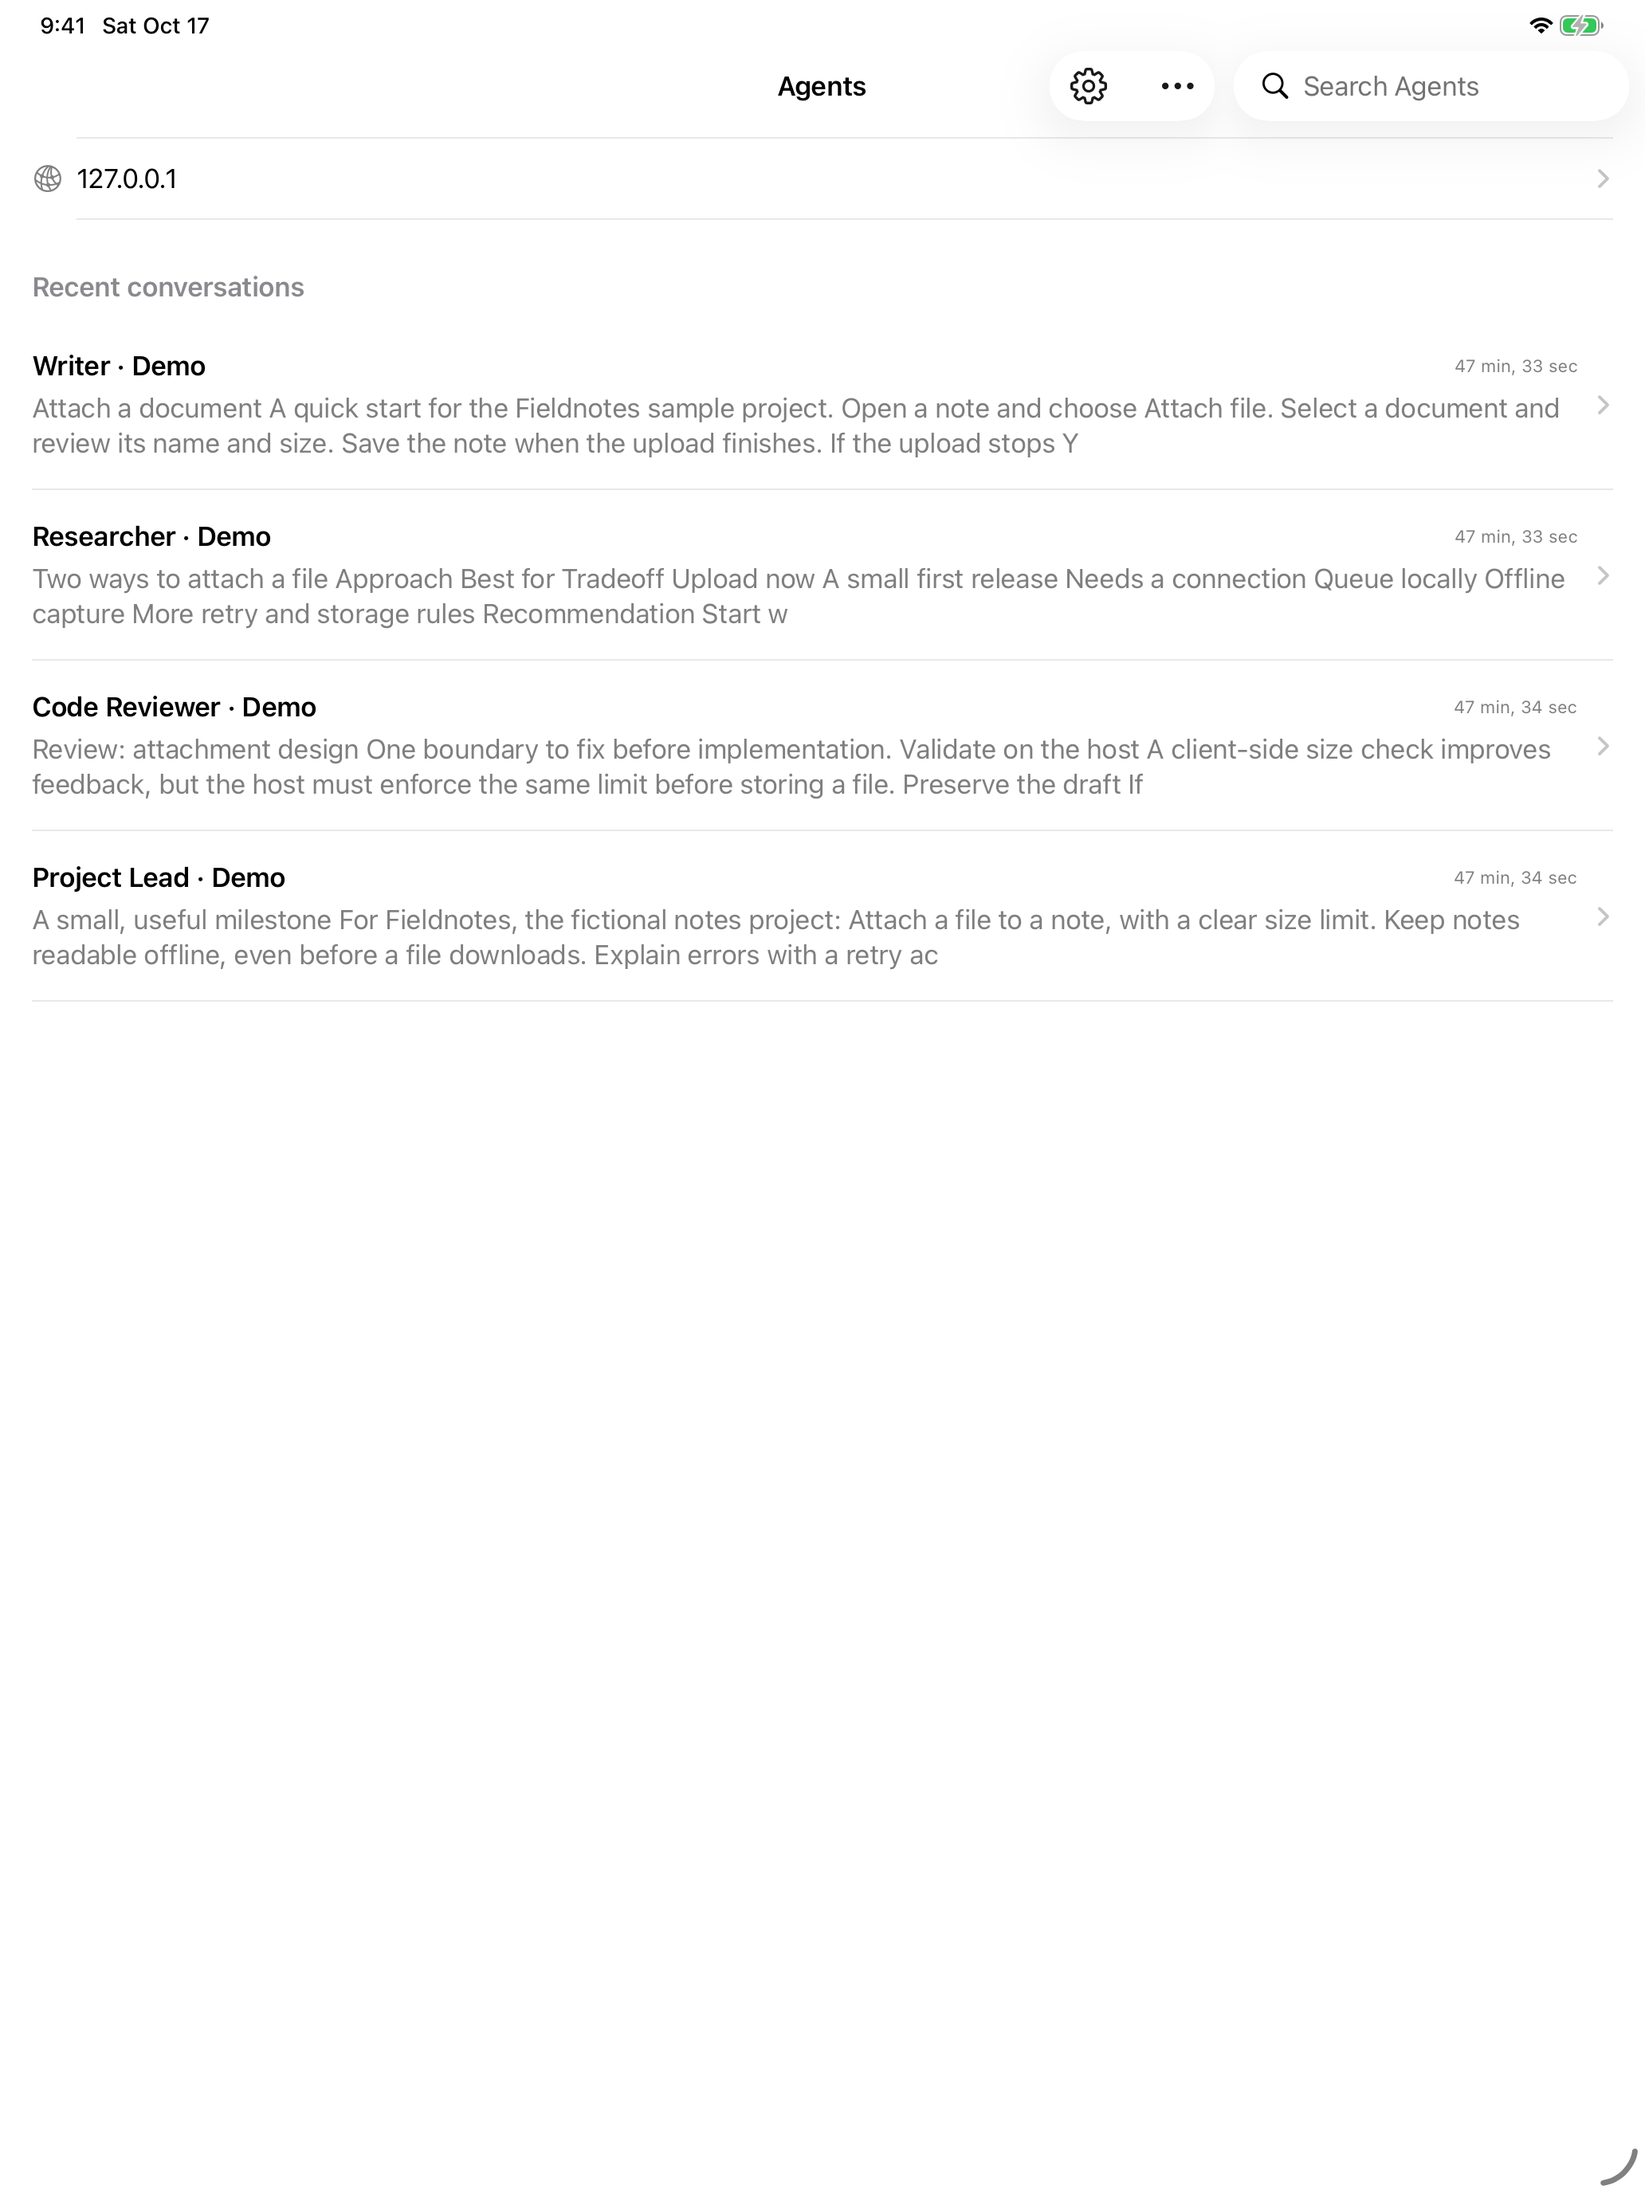
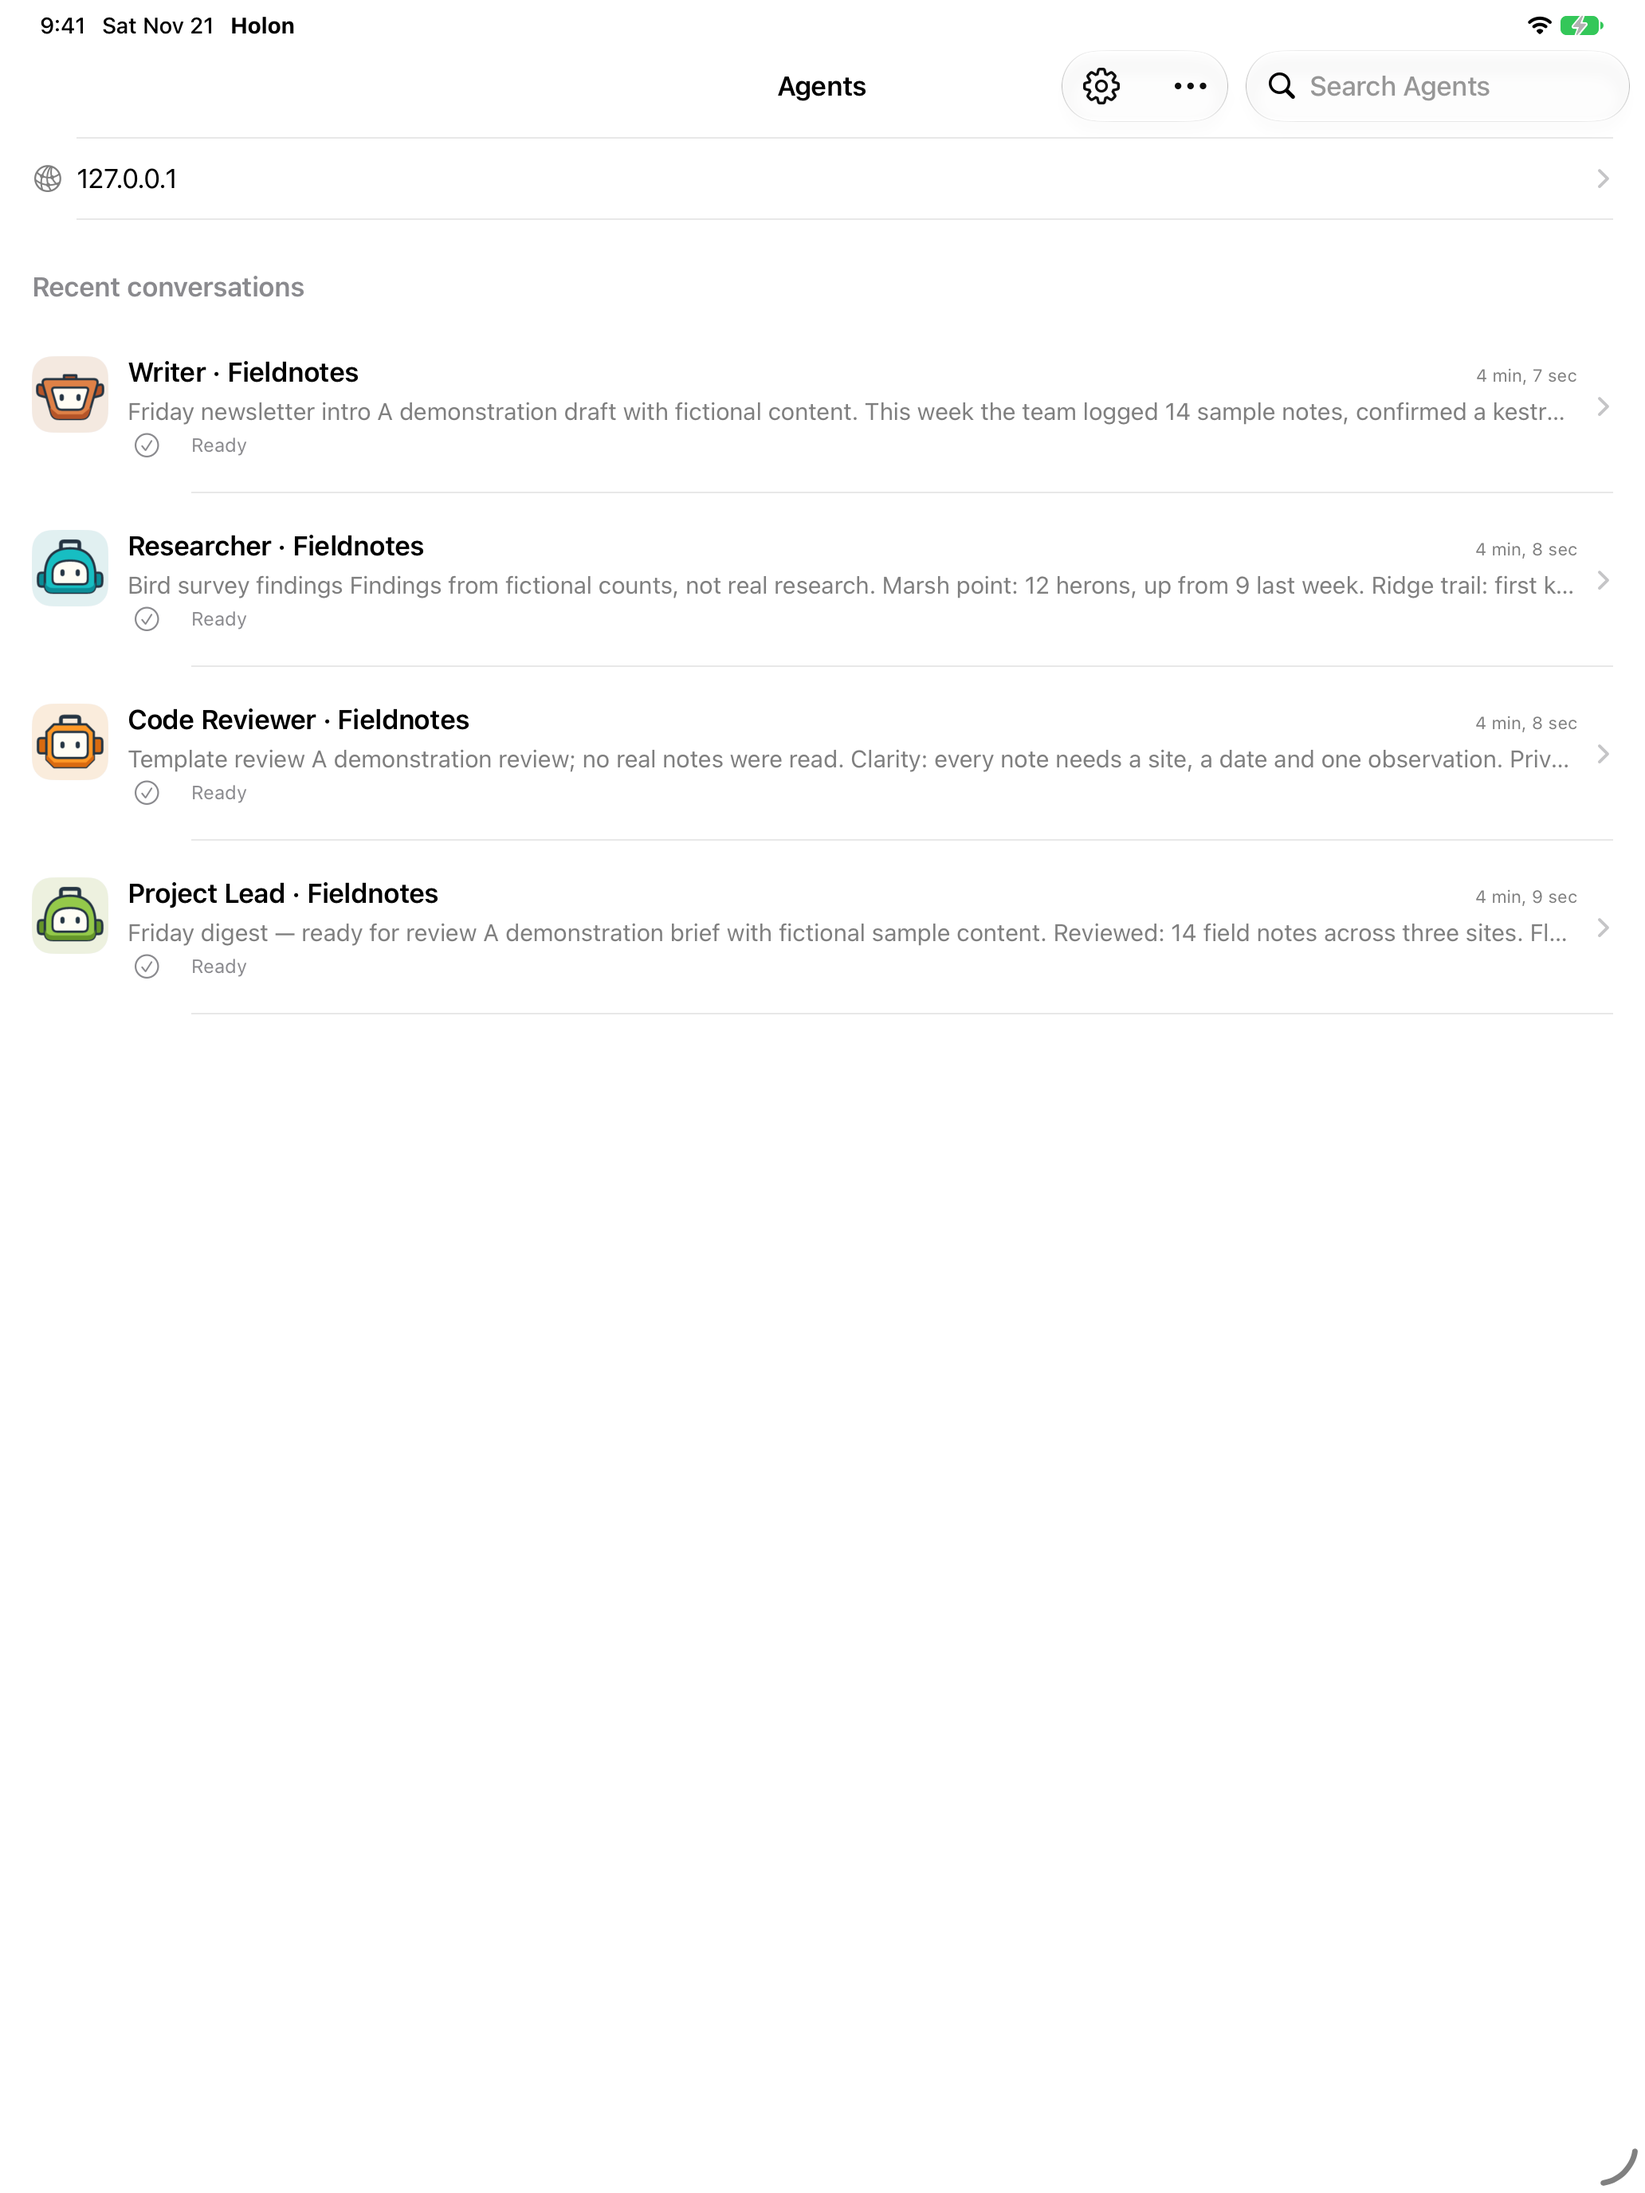
docs: refresh iOS App Store screenshots for current main UI
Replace the 16 en-US store screenshots (iPhone 1206x2622 and iPad Pro
13-inch 2064x2752, light/dark x 4 scenes) captured from 0.1.0 (build 9)
in October 2026 with new captures from main a6cd86c6, which includes the
0.1.2-series UI improvements (input preview, unread states, navigation,
avatar caching, layout stability). Captured on dedicated iOS 27.0
simulators against an isolated local-only demo service with fictional
content. Every PNG was individually reviewed for dimensions, scene
content, absence of error/loading/cache banners, credentials, and
test-runner text. Regenerate SHA256SUMS and update provenance in
apps/ios/store/README.md.

diff --git a/apps/ios/store/README.md b/apps/ios/store/README.md
@@ -1,12 +1,13 @@
 # iOS store and article assets
 
-These assets were prepared for the `en-US` App Store listing of Holon iOS
-0.1.0 (build 9) and can also be reused on the website or in articles. They
-are native, unretouched simulator captures taken on October 16-17, 2026.
-They are the exact files staged for manual upload for the 0.1.0 submission
-on October 17, 2026: the operator confirmed the screenshot upload, and the
-App Store Connect submission validation no longer reported missing
-screenshots.
+These assets are prepared for the `en-US` App Store listing of Holon iOS
+and can also be reused on the website or in articles. They are native,
+unretouched simulator captures taken on November 21, 2026 from current
+`main` (commit `a6cd86c6`), which includes the UI improvements released
+in the TestFlight 0.1.2 (16) build (input preview, unread states,
+navigation, avatar caching, and layout stability). They replace the
+0.1.0 captures from October 2026 and are the candidate files for the
+next App Store screenshot upload.
 
 ## Files and provenance
 
@@ -27,9 +28,12 @@ a rendered plan document (`04-plan`).
 
 The captures come from a dedicated iPhone 17 Pro simulator (1206 x 2622)
 and a dedicated iPad Pro 13-inch (M5) simulator (2064 x 2752) running the
-release 0.1.0 (build 9) client. The client was connected to an isolated,
-local-only demo Holon service with a disposable home, serving a fictional
-"Fieldnotes" project with four example agents. The visible content states
-it is fictional and illustrative, and every PNG was individually reviewed
-to confirm there are no error, loading, or cache banners and no
-credentials, tokens, or personal data.
+`main` client (`a6cd86c6`, simulator Debug build) on iOS 27.0. The client
+was connected to an isolated, local-only demo Holon service with a
+disposable home, serving a fictional "Fieldnotes" project with four
+example agents. The visible content states it is fictional and
+illustrative, and every PNG was individually reviewed to confirm there are
+no error, loading, or cache banners and no credentials, tokens, or
+personal data. On iOS 27 the iPad status bar shows the frontmost app
+name, so the iPad frames read "Holon" next to the date while the iPhone
+frames do not.
